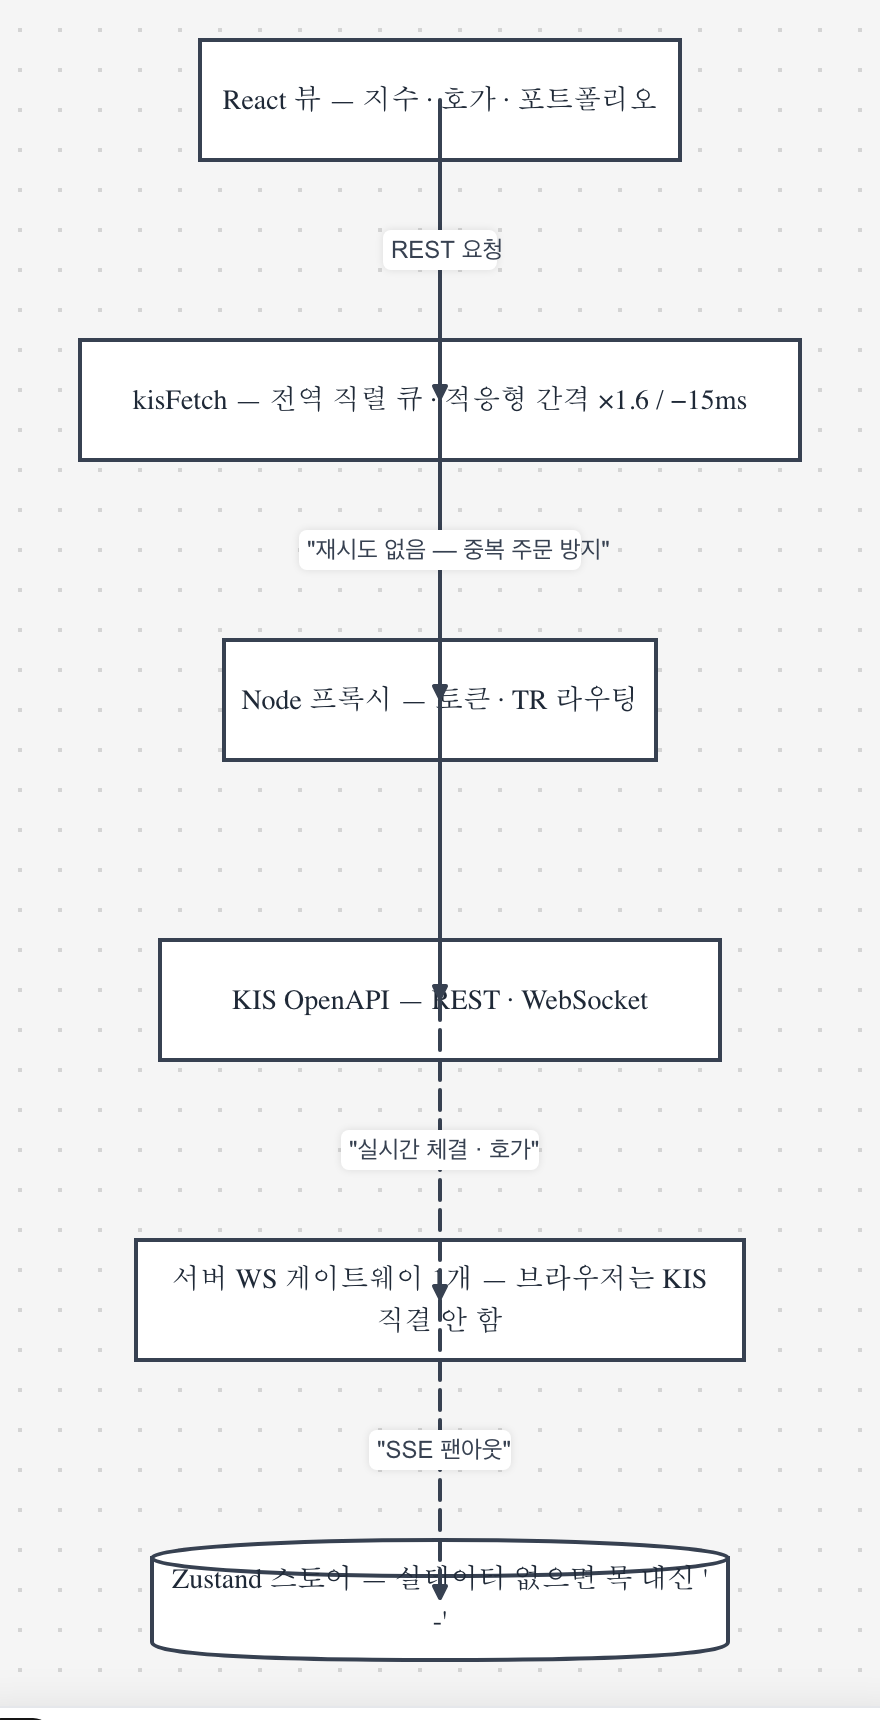
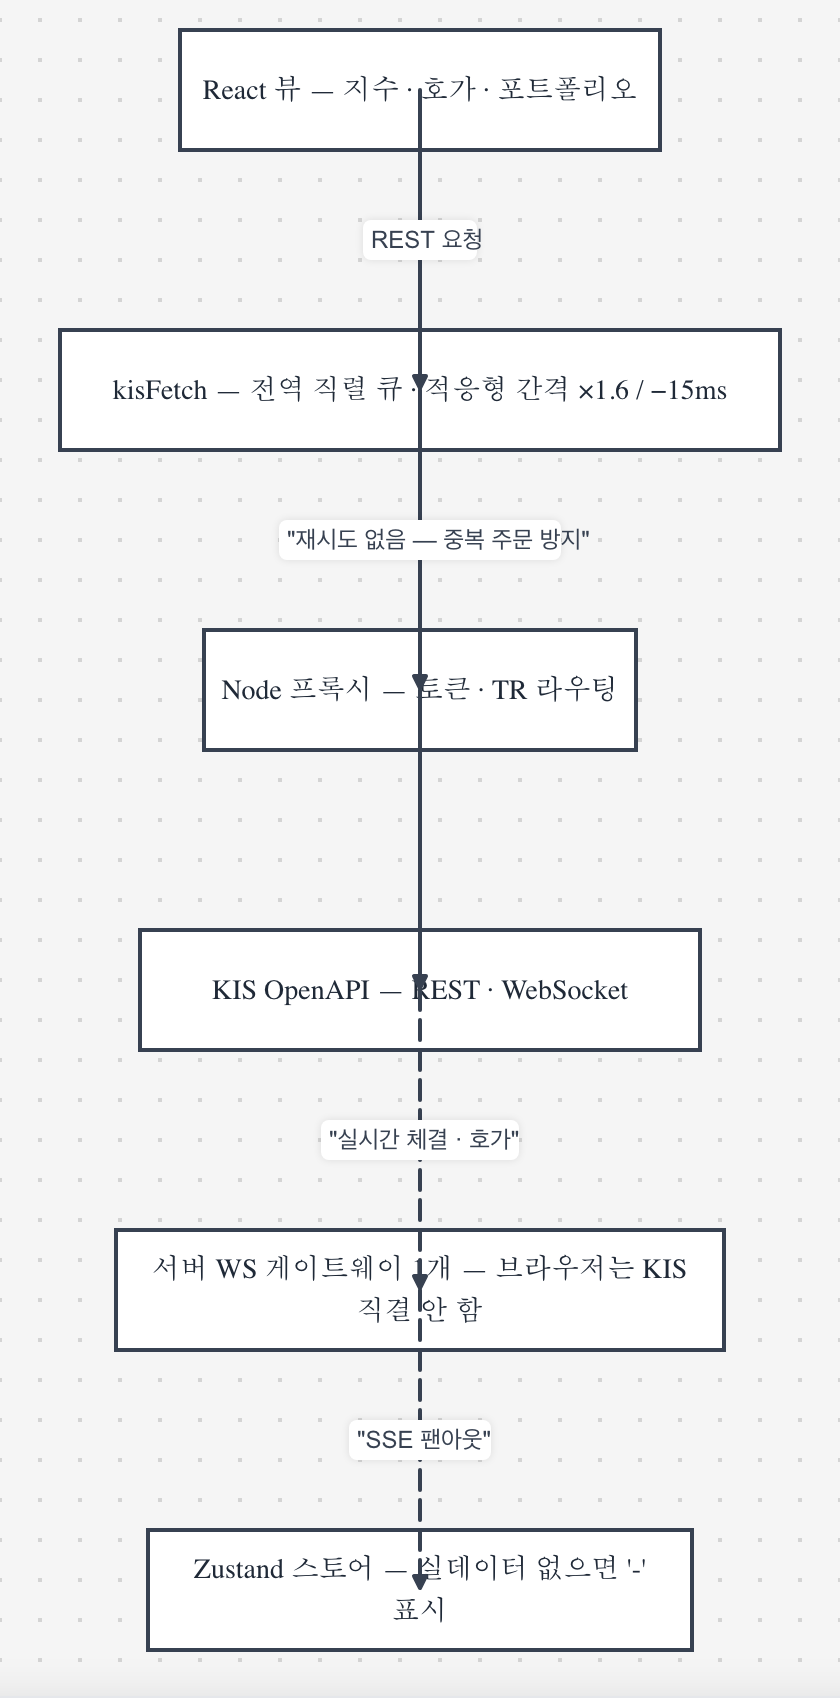
docs: 언어 스위처 파이프 표기 통일 + KIS 다이어그램 재캡처(라벨 겹침 수정)
Claude-Session: https://claude.ai/code/session_0178WXK6HQCrR6NYPYV2eBEP

diff --git a/README.en.md b/README.en.md
@@ -1,6 +1,6 @@
 # PULSE — Market Overview Dashboard
 
-[한국어](README.md) · **English**
+[한국어](README.md) | **English**
 
 It's a dark trading-terminal style market dashboard. I've combined indices, heatmaps, sentiment-scored news, real-time Korean orderbooks/ticks, rankings, a paper-trading portfolio (KIS mock account), AI opinions, and technical price targets—all on one screen. Plus, a Korean real estate module with live transaction data and a 3D apartment complex site map.
 

diff --git a/README.md b/README.md
@@ -1,6 +1,6 @@
 # PULSE — 시황 통합 대시보드
 
-**한국어** · [English](README.en.md)
+**한국어** | [English](README.en.md)
 
 > **About (EN)** — A dark trading-terminal dashboard that fuses Korean and US
 > market data into one screen: live KIS tick/orderbook over SSE, index cards,
